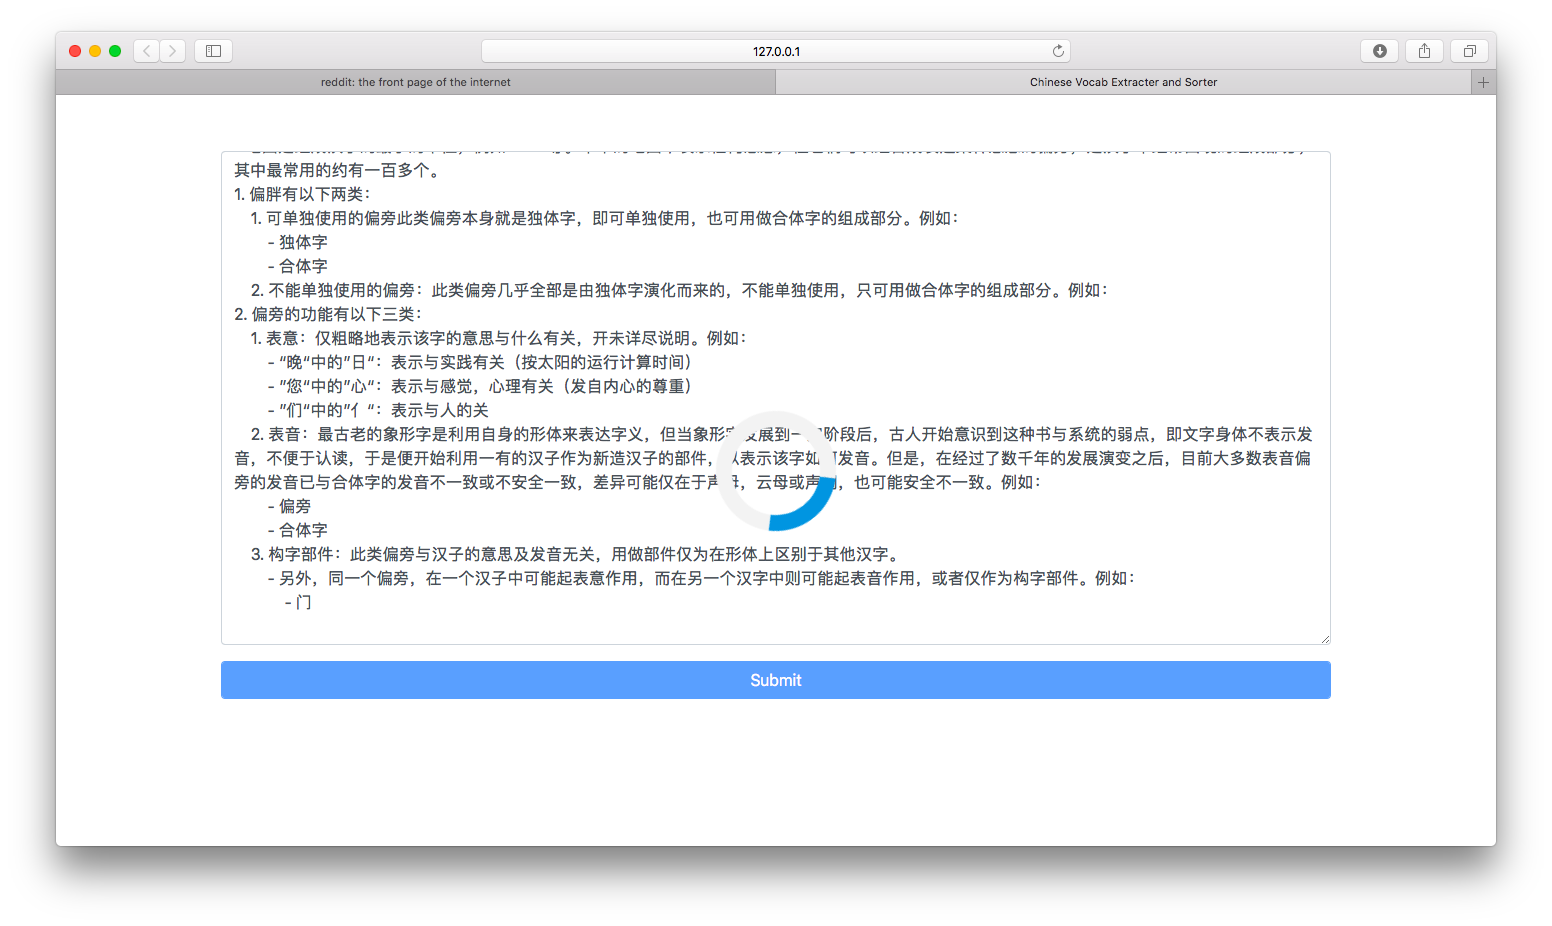
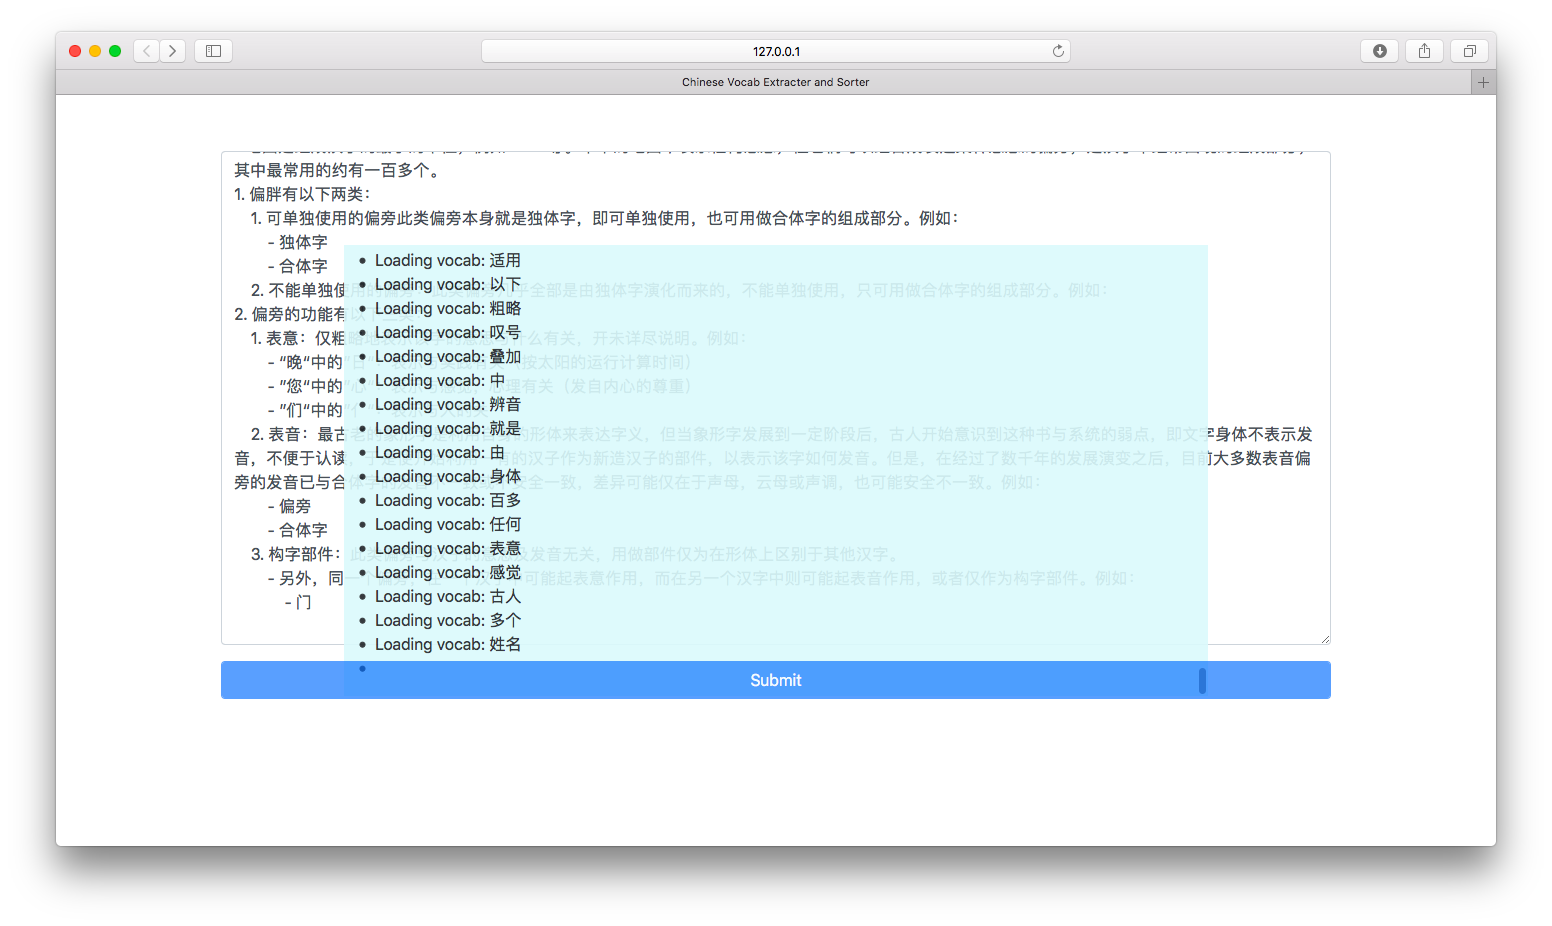
Change from batch-loading to streaming mode

Changed region(s): [[0.2165, 0.2419, 0.8041, 0.7257], [0.0309, 0.0605, 0.5567, 0.121], [0.6804, 0.0605, 0.7113, 0.0907]]

diff --git a/zhsort/static/index.js b/zhsort/static/index.js
@@ -1,31 +1,64 @@
 var isLoading = false;
-var spinningLoader = document.getElementById('loader');
+var loader = document.getElementById('loader');
 var sButton = document.getElementById('submitButton')
 
 sButton.addEventListener('click', function(){
     if(!isLoading){
         isLoading = true;
-        spinningLoader.style.visibility = 'visible';
+        loader.style.visibility = 'visible';
         sButton.disabled = true;
+        loader.innerHTML = '<li>Loading...</li>';
 
-        var http = new XMLHttpRequest();
+        var xhr = new XMLHttpRequest();
         var url = '/create';
         var params = {
             text: document.getElementById('textArea1').value
         }
+        var position = 0;
+        function handleData(){
+            var messages = xhr.responseText.split('\n');
+            var latest = '';
 
-        http.open('POST', url, true);
-        http.setRequestHeader('Content-type', 'application/json;charset=UTF-8');
-        http.onload = function(){
-            if(http.status == 201){
-                var filename = JSON.parse(http.responseText).filename;
-                window.location = '/excel/' + filename;
+            messages.forEach(function(value) {
+                try {
+                    var jsonLatest = JSON.parse(value);
+                    if(jsonLatest.simplified) latest = 'Loading vocab: ' + jsonLatest.simplified;
+                    else if(jsonLatest.hanzi) latest = 'Loading Hanzi: ' + jsonLatest.hanzi;
+                    else latest = value;
+                } catch (err) {
+                    latest = value;
+                }
+
+                var item = document.createElement('li');
+                item.textContent = latest;
+                loader.appendChild(item);
+                loader.scrollTop = loader.scrollHeight;
+            });
+            position = messages.length - 1;
+
+            return latest;
+        }
+
+        xhr.open('POST', url, true);
+        xhr.setRequestHeader('Content-type', 'application/json;charset=UTF-8');
+        xhr.send(JSON.stringify(params));
+        var timer = setInterval(function() {
+            // check the response for new data
+            var latest = handleData();
+            if (xhr.readyState == XMLHttpRequest.DONE) {
+                clearInterval(timer);
+                window.location = '/excel/' + latest;
 
                 isLoading = false;
-                spinningLoader.style.visibility = 'hidden';
+                loader.style.visibility = 'hidden';
                 sButton.disabled = false;
             }
-        };
-        http.send(JSON.stringify(params));
+
+            // stop checking once the response has ended
+            if (xhr.readyState == XMLHttpRequest.DONE) {
+                clearInterval(timer);
+                latest.textContent = 'Done';
+            }
+        }, 1000);
     }
 });

diff --git a/zhsort/static/index.css b/zhsort/static/index.css
@@ -1,6 +1,6 @@
-#loader {
-    border: 16px solid #f3f3f3; /* Light grey */
-    border-top: 16px solid #3498db; /* Blue */
+/* #loader {
+    border: 16px solid #f3f3f3;
+    border-top: 16px solid #3498db;
     border-radius: 50%;
     width: 120px;
     height: 120px;
@@ -16,6 +16,20 @@
 @keyframes spin {
     0% { transform: rotate(0deg); }
     100% { transform: rotate(360deg); }
+} */
+
+#loader {
+    height: 60%;
+    width: 60%;
+    background-color: #dff9fb;
+    opacity: 0.9;
+    border: 2px gray;
+    visibility: hidden;
+    position: fixed;
+    top: 20%;
+    left: 20%;
+    overflow: scroll;
+    padding: 1em;
 }
 
 #container {

diff --git a/zhsort/resources.py b/zhsort/resources.py
@@ -1,4 +1,4 @@
-from flask import request, send_from_directory, jsonify
+from flask import request, send_from_directory, Response
 from werkzeug.utils import secure_filename
 
 from datetime import datetime
@@ -7,6 +7,7 @@ import xlsxwriter
 import os
 import atexit
 import math
+import json
 
 from . import app
 from .dir import TEMP_DIR
@@ -16,91 +17,109 @@ level_maker = Level()
 
 @app.route('/create', methods=['POST'])
 def create_excel():
-    d = level_maker.search_text(request.get_json()['text'])
-    filename = datetime.now().strftime('%Y-%m-%d_%H-%M-%S') + '.xlsx'
-    xlsx = os.path.join(TEMP_DIR, filename)
-    atexit.register(os.unlink, xlsx)
+    text = request.get_json()['text']
 
-    workbook = xlsxwriter.Workbook(xlsx)
-    gray = workbook.add_format({'bg_color': '#ecf0f1'})
+    def _generate_base():
+        for db_vocab in level_maker.search_vocab_iter(text):
+            yield 'vocab', db_vocab
+        for db_hanzi in level_maker.search_hanzi_iter(text):
+            yield 'hanzi', db_hanzi
 
-    ws = workbook.add_worksheet('vocab')
-    ws.freeze_panes(1, 0)
-    header = [
-        'Frequency',
-        'Simplified',
-        'Traditional',
-        'Pinyin',
-        'English',
-        'Sentences',
-        'Tags'
-    ]
-    ws.write_row(0, 0, header)
-    ws.set_column(0, len(header)-1, 15)
+    def _generate():
+        d = dict()
+        for type_, record in _generate_base():
+            d.setdefault(type_, []).append(record)
+            yield json.dumps(record) + '\n'
 
-    previous = 3.5
-    format_ = None
-    for i, record in enumerate(d['vocab']):
-        freq_log = math.ceil(math.log10(record.get('frequency')) * 2)/2
-        if 1 < freq_log < previous:
-            previous = freq_log
-            if format_:
-                format_ = None
-            else:
-                format_ = gray
+        d = {
+            'hanzi': sorted(d['hanzi'], key=lambda x: x['sequence'] if x['sequence'] else math.inf),
+            'vocab': sorted(d['vocab'], key=lambda x: -x['frequency'])
+        }
 
-        ws.write_row(i+1, 0, [
-            record.get('frequency'),
-            record.get('simplified'),
-            record.get('traditional', None),
-            record.get('pinyin', None),
-            record.get('english', None),
-            '\n'.join(record.get('sentences', '')),
-            ' '.join(record.get('tags', []))
-        ], format_)
+        filename = datetime.now().strftime('%Y-%m-%d_%H-%M-%S') + '.xlsx'
+        xlsx = os.path.join(TEMP_DIR, filename)
+        atexit.register(os.unlink, xlsx)
 
-    ws = workbook.add_worksheet('hanzi')
-    ws.freeze_panes(1, 0)
-    header = [
-        'Sequence',
-        'Hanzi',
-        'Pinyin',
-        'Meaning',
-        'Vocabs',
-        'Sentences'
-    ]
-    ws.write_row(0, 0, header)
-    ws.set_column(0, len(header)-1, 15)
+        workbook = xlsxwriter.Workbook(xlsx)
+        gray = workbook.add_format({'bg_color': '#ecf0f1'})
 
-    previous = 0
-    format_ = None
-    for i, record in enumerate(d['hanzi']):
-        sequence = record.get('sequence')
-        if not sequence or sequence > 2000:
-            sequence = 10000
+        ws = workbook.add_worksheet('vocab')
+        ws.freeze_panes(1, 0)
+        header = [
+            'Frequency',
+            'Simplified',
+            'Traditional',
+            'Pinyin',
+            'English',
+            'Sentences',
+            'Tags'
+        ]
+        ws.write_row(0, 0, header)
+        ws.set_column(0, len(header)-1, 15)
 
-        current = sequence // 500
-        if current > previous:
-            previous = current
-            if format_:
-                format_ = None
-            else:
-                format_ = gray
+        previous = 3.5
+        format_ = None
+        for i, record in enumerate(d['vocab']):
+            freq_log = math.ceil(math.log10(record.get('frequency')) * 2)/2
+            if 1 < freq_log < previous:
+                previous = freq_log
+                if format_:
+                    format_ = None
+                else:
+                    format_ = gray
 
-        ws.write_row(i+1, 0, [
-            record.get('sequence'),
-            record.get('hanzi'),
-            record.get('pinyin', None),
-            record.get('meaning', None),
-            '，'.join(record.get('vocabs', '')),
-            '\n'.join(record.get('sentences', ''))
-        ], format_)
+            ws.write_row(i+1, 0, [
+                record.get('frequency'),
+                record.get('simplified'),
+                record.get('traditional', None),
+                record.get('pinyin', None),
+                record.get('english', None),
+                '\n'.join(record.get('sentences', '')),
+                ' '.join(record.get('tags', []))
+            ], format_)
 
-    workbook.close()
+        ws = workbook.add_worksheet('hanzi')
+        ws.freeze_panes(1, 0)
+        header = [
+            'Sequence',
+            'Hanzi',
+            'Pinyin',
+            'Meaning',
+            'Vocabs',
+            'Sentences'
+        ]
+        ws.write_row(0, 0, header)
+        ws.set_column(0, len(header)-1, 15)
 
-    return jsonify({
-        'filename': filename
-    }), 201
+        previous = 0
+        format_ = None
+        for i, record in enumerate(d['hanzi']):
+            sequence = record.get('sequence')
+            if not sequence or sequence > 2000:
+                sequence = 10000
+
+            current = sequence // 500
+            if current > previous:
+                previous = current
+                if format_:
+                    format_ = None
+                else:
+                    format_ = gray
+
+            ws.write_row(i+1, 0, [
+                record.get('sequence'),
+                record.get('hanzi'),
+                record.get('pinyin', None),
+                record.get('meaning', None),
+                '，'.join(record.get('vocabs', '')),
+                '\n'.join(record.get('sentences', ''))
+            ], format_)
+
+        workbook.close()
+
+        yield filename
+
+    return Response(_generate(), status=201)
 
 
 @app.route('/excel/<filename>')
